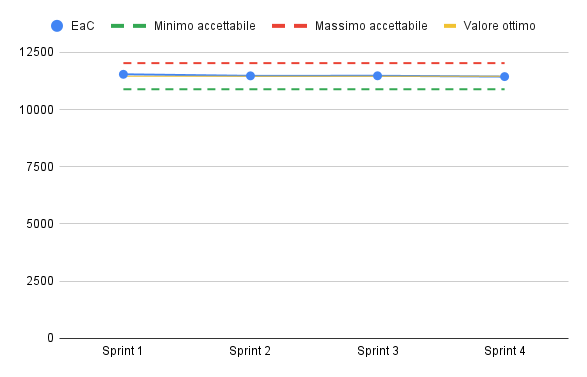
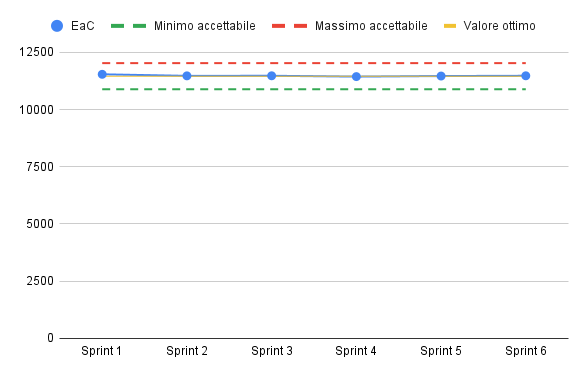
change: inseriti i grafici
inseriti i grafici fino allo sprint 6

close #178

diff --git a/Docs/Generali/piano_di_qualifica/titlepage.tex b/Docs/Generali/piano_di_qualifica/titlepage.tex
@@ -17,12 +17,12 @@
 	\rule{0.6\textwidth}{0.4pt}
 	\\[0.5cm]
 	\begin{tabular}{r|l}
-		\textbf{Versione} & 0.9.0\\
+		\textbf{Versione} & 0.10.0\\
 		\textbf{Stato} & in redazione\\
 		\textbf{Uso} & Esterno\\                         
 		\textbf{Approvazione} & -\\                      
 		\textbf{Verifica} & Soranzo Andrea\\ & Chilese Elena\\ & Pincin Matteo \\                         
-		\textbf{Redazione} & Diviesti Filippo \\ & Bergamin Elia \\ & Djossa Edgar \\ & Soranzo Andrea \\ 
+		\textbf{Redazione} & Diviesti Filippo \\ & Bergamin Elia \\ & Djossa Edgar \\ & Soranzo Andrea \\ & Pincin Matteo \\ 
 		\textbf{Distribuzione} & \textit{Six Bit Busters} \\ & Prof. Vardanega Tullio \\ & Prof. Cardin Riccardo \\ & \textit{Sanmarco Informatica S.p.A.}
 	\end{tabular}	
 	\\[0.8cm]

diff --git a/Docs/Generali/piano_di_qualifica/05_resoconto.tex b/Docs/Generali/piano_di_qualifica/05_resoconto.tex
@@ -26,7 +26,7 @@ In seguito sono presentati i grafici relativi a diverse metriche significative d
 }
 { % DESCRIZIONE RTB
     Il grafico mostra una crescita dei costi regolare e prevedibile, coerente con una pianificazione accurata che suddivide equamente il budget tra i vari sprint.
-    Questo è un valore positivo e significa che il team riesce a pianificare nel modo corretto le ore per ogni ruolo ad ogni print.
+    Questo è un valore positivo e significa che il team riesce a pianificare nel modo corretto le ore per ogni ruolo ad ogni sprint.
 }
 
 \Met

diff --git a/Docs/Generali/piano_di_qualifica/config/changelog_input.tex b/Docs/Generali/piano_di_qualifica/config/changelog_input.tex
@@ -1,5 +1,6 @@
 % Insert changelog values here
 \changelogTable{
+	0.10.0 & 21-02-2025 & Pincin Matteo & Resoconto attività di verifica & - \\
 	0.9.0 & 27-01-2025 & Chilese Elena & Revisione documento & Pincin Matteo \\
 	0.8.0 & 26-01-2025 & Soranzo Andrea & Revisione test & Chilese Elena \\
     0.7.0 & 25-01-2025 & Bergamin Elia & Test di accettazione & Chilese Elena \\ 
